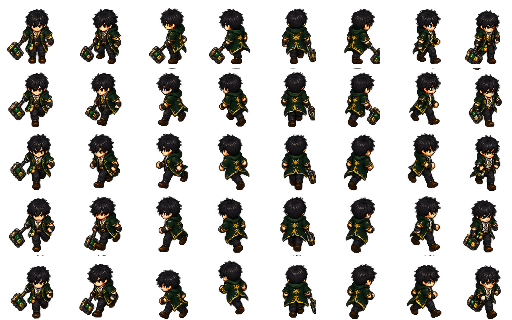
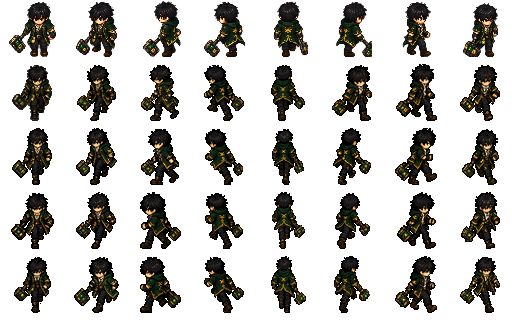
アセット修正

diff --git a/tools/pixelize_frame.py b/tools/pixelize_frame.py
@@ -1,5 +1,5 @@
 #!/usr/bin/env python3
-"""semantic renderを論理pixel gridへ縮小し、パレットを量子化する。"""
+"""可視前景を論理pixel gridへ正規化し、パレットを量子化する。"""
 
 from __future__ import annotations
 
@@ -10,36 +10,56 @@ from pathlib import Path
 from PIL import Image
 
 
+def alpha_mask(image: Image.Image, threshold: int) -> Image.Image:
+    """縮尺決定用に、見えない半透明ノイズを除いた前景マスクを作る。"""
+    return image.getchannel("A").point(lambda value: 255 if value > threshold else 0)
+
+
 def main() -> int:
     parser = argparse.ArgumentParser()
     parser.add_argument("input", type=Path)
     parser.add_argument("output", type=Path)
+    parser.add_argument("--spec", type=Path)
     parser.add_argument("--size", type=int, default=64)
     parser.add_argument("--colors", type=int, default=32)
-    parser.add_argument("--alpha-threshold", type=int, default=8)
-    parser.add_argument("--content-height", type=int, default=48)
+    parser.add_argument("--alpha-threshold", type=int)
+    parser.add_argument("--content-height", type=int, help="可視前景の目標高さ。未指定時はspecまたは48px")
+    parser.add_argument("--max-visible-width", type=int)
     args = parser.parse_args()
+    spec = json.loads(args.spec.read_text(encoding="utf-8")) if args.spec else {}
+    normalization = spec.get("normalization", {})
+    alpha_threshold = args.alpha_threshold if args.alpha_threshold is not None else normalization.get("alpha_bbox_threshold", 8)
+    target_visible_height = args.content_height if args.content_height is not None else normalization.get("target_visible_height", 48)
+    max_visible_width = args.max_visible_width if args.max_visible_width is not None else normalization.get("max_visible_width", args.size - 4)
     source = Image.open(args.input).convert("RGBA")
-    # 生成器ごとの余白はalpha bboxで除き、セル内の占有率を決定論的に揃える。
-    bbox = source.getchannel("A").getbbox()
+    # 先にalpha閾値を適用する。半透明の背景・縁ノイズをbboxへ含めると、
+    # キャラクター自身を不必要に縮小してしまう。
+    mask = alpha_mask(source, alpha_threshold)
+    bbox = mask.getbbox()
     if bbox is None:
         raise ValueError("source image has no foreground alpha")
-    padding = max(2, round(max(bbox[2] - bbox[0], bbox[3] - bbox[1]) * 0.04))
+    visible_width = bbox[2] - bbox[0]
+    visible_height = bbox[3] - bbox[1]
+    padding = max(2, round(max(visible_width, visible_height) * 0.04))
     crop = source.crop((max(0, bbox[0] - padding), max(0, bbox[1] - padding), min(source.width, bbox[2] + padding), min(source.height, bbox[3] + padding)))
-    scale = min(args.content_height / crop.height, (args.size - 4) / crop.width)
+    desired_scale = min(target_visible_height / visible_height, max_visible_width / visible_width)
+    # padding込みのcropがセルからあふれないよう、最終的な安全上限を設ける。
+    fit_scale = min((args.size - 2) / crop.width, (args.size - 2) / crop.height)
+    scale = min(desired_scale, fit_scale)
     target_size = (max(1, round(crop.width * scale)), max(1, round(crop.height * scale)))
     # 高解像度からの縮小はNEARESTではなくLANCZOS。以降に作る64px格子が論理pixel gridとなる。
     resized_crop = crop.resize(target_size, Image.Resampling.LANCZOS)
     resized = Image.new("RGBA", (args.size, args.size), (0, 0, 0, 0))
     resized.alpha_composite(resized_crop, ((args.size - target_size[0]) // 2, (args.size - target_size[1]) // 2))
-    alpha = resized.getchannel("A").point(lambda value: 255 if value > args.alpha_threshold else 0)
+    alpha = alpha_mask(resized, alpha_threshold)
     rgb = resized.convert("RGB").quantize(colors=args.colors, method=Image.Quantize.FASTOCTREE).convert("RGB")
     result = Image.merge("RGBA", (*rgb.split(), alpha))
     args.output.parent.mkdir(parents=True, exist_ok=True)
     result.save(args.output)
     colors = result.get_flattened_data()
     palette_count = len({pixel[:3] for pixel in colors if pixel[3]})
-    print(json.dumps({"status": "ok", "source_size": source.size, "source_bbox": bbox, "content_size": target_size, "pixel_grid": [args.size, args.size], "resample": "LANCZOS", "palette_colors": palette_count}, ensure_ascii=False))
+    result_bbox = alpha.getbbox()
+    print(json.dumps({"status": "ok", "source_size": source.size, "visible_bbox": bbox, "visible_size": [visible_width, visible_height], "target_visible_height": target_visible_height, "max_visible_width": max_visible_width, "content_size": target_size, "result_visible_size": [result_bbox[2] - result_bbox[0], result_bbox[3] - result_bbox[1]], "pixel_grid": [args.size, args.size], "resample": "LANCZOS", "palette_colors": palette_count}, ensure_ascii=False))
     return 0
 
 

diff --git a/tools/validate_sprite.py b/tools/validate_sprite.py
@@ -27,10 +27,17 @@ def main() -> int:
         errors.append(f"size expected 512x320, got {image.size}")
     image = image.convert("RGBA")
     anchor = spec["foot_anchor"]
+    normalization = spec.get("normalization", {})
+    target_visible_height = normalization.get("target_visible_height")
+    height_tolerance = normalization.get("height_tolerance", 0)
+    min_occupancy = normalization.get("min_occupancy", 0.015)
+    max_occupancy = normalization.get("max_occupancy", 1.0)
+    cell_width = spec["cell_size"]["width"]
+    cell_height = spec["cell_size"]["height"]
     cells: dict[str, object] = {}
     for row, row_id in enumerate(spec["rows"]):
         for column, direction in enumerate(spec["columns"]):
-            cell = image.crop((column * 64, row * 64, column * 64 + 64, row * 64 + 64))
+            cell = image.crop((column * cell_width, row * cell_height, (column + 1) * cell_width, (row + 1) * cell_height))
             bbox = cell.getchannel("A").getbbox()
             frame_id = f"{direction}_{row_id}"
             if bbox is None:
@@ -38,13 +45,17 @@ def main() -> int:
                 continue
             center_x = (bbox[0] + bbox[2] - 1) / 2
             bottom_y = bbox[3] - 1
-            occupancy = sum(1 for value in cell.getchannel("A").get_flattened_data() if value) / (64 * 64)
+            visible_width = bbox[2] - bbox[0]
+            visible_height = bbox[3] - bbox[1]
+            occupancy = sum(1 for value in cell.getchannel("A").get_flattened_data() if value) / (cell_width * cell_height)
             if abs(bottom_y - anchor["y"]) > args.anchor_tolerance:
                 errors.append(f"{frame_id}: bottom_y {bottom_y}, expected {anchor['y']}")
-            if occupancy < 0.015:
-                warnings.append(f"{frame_id}: low occupancy {occupancy:.3f}")
-            cells[frame_id] = {"bbox": bbox, "center_x": center_x, "bottom_y": bottom_y, "occupancy": occupancy}
-    report = {"status": "pass" if not errors else "fail", "errors": errors, "warnings": warnings, "cells": cells}
+            if target_visible_height is not None and abs(visible_height - target_visible_height) > height_tolerance:
+                errors.append(f"{frame_id}: visible_height {visible_height}, expected {target_visible_height}±{height_tolerance}")
+            if occupancy < min_occupancy or occupancy > max_occupancy:
+                errors.append(f"{frame_id}: occupancy {occupancy:.3f}, expected {min_occupancy:.3f}..{max_occupancy:.3f}")
+            cells[frame_id] = {"bbox": bbox, "center_x": center_x, "bottom_y": bottom_y, "visible_width": visible_width, "visible_height": visible_height, "occupancy": occupancy}
+    report = {"status": "pass" if not errors else "fail", "errors": errors, "warnings": warnings, "normalization": normalization, "cells": cells}
     args.report.parent.mkdir(parents=True, exist_ok=True)
     args.report.write_text(json.dumps(report, ensure_ascii=False, indent=2), encoding="utf-8")
     print(json.dumps({"status": report["status"], "errors": len(errors), "warnings": len(warnings)}, ensure_ascii=False))

diff --git a/docs/guides/キャラクターアセット制作ガイド.md b/docs/guides/キャラクターアセット制作ガイド.md
@@ -103,10 +103,11 @@ Avoid: sprite sheet, grid, cells, labels, watermark, border, <禁止事項>
 ## 正規化と透過処理
 
 1. source imageのalphaを確認する。ネイティブ透過なら保持し、不透明なら背景除去の方法・閾値・ツール版をmanifestへ記録する。
-2. 高解像度のsemantic renderは、pixelization、palette quantization、必要最小限のpixel cleanupを通して論理pixel gridを確定する。高解像度画像を`NEAREST`だけで64×64pxへ間引いてはならない。
-3. pixel grid確定後、各フレームのalpha bboxから中心Xと足元を取得し、motion specのアンカーへ配置する。`NEAREST`はこの確定済みgridの拡大・縮小を壊さないためだけに使う。
-4. 40枚の採用済みRGBAフレームを指定の方向・行・列へ機械的に組版し、512×320pxのRGBA PNGとして保存する。
-5. 寸法・RGBA・40セル・透明背景・アンカー・占有率・パレットを検査し、通過した候補だけをGodot用ファイルに昇格する。
+2. 高解像度のsemantic renderは、alpha閾値を適用した可視前景bboxを取得してから、pixelization、palette quantization、必要最小限のpixel cleanupを通して論理pixel gridを確定する。半透明の背景・縁ノイズをbboxへ含めてキャラクターを縮小してはならない。高解像度画像を`NEAREST`だけで64×64pxへ間引いてはならない。
+3. asset specの`normalization`に、alpha bbox閾値、可視前景の目標高さ・許容差、最大可視幅、占有率範囲を定義する。目標高さは既存の採用素材から計測し、停止・歩行の全フレームを同じ契約で正規化する。
+4. pixel grid確定後、各フレームのalpha bboxから中心Xと足元を取得し、motion specのアンカーへ配置する。`NEAREST`はこの確定済みgridの拡大・縮小を壊さないためだけに使う。
+5. 40枚の採用済みRGBAフレームを指定の方向・行・列へ機械的に組版し、512×320pxのRGBA PNGとして保存する。
+6. 寸法・RGBA・40セル・透明背景・アンカー・可視高さ・占有率・パレットを検査し、通過した候補だけをGodot用ファイルに昇格する。
 
 背景除去を誤って黒髪や濃色衣装へ適用すると、輪郭が透明化され、ゲーム中に切れ端がちらつく。ネイティブ透過を検出した素材には背景除去を適用しない。
 

diff --git a/docs/guides/スプライト素材作成ガイドライン.md b/docs/guides/スプライト素材作成ガイドライン.md
@@ -98,11 +98,13 @@ Constraints: centered, feet near the ground anchor, no background/floor/shadow/t
 今回の処理は次の順序である。
 
 1. `extract_alpha.py`で既存alphaを保持する。alphaがなければ、四隅の背景色を使ったchroma keyで背景を抜く。
-2. `pixelize_frame.py`で前景bboxを取得し、64×64pxの論理グリッドへ収める。
+2. `pixelize_frame.py`でalpha閾値後の可視前景bboxを取得し、asset specの目標可視高さへ正規化して64×64pxの論理グリッドへ収める。半透明の縁や背景ノイズはbboxに含めない。
 3. 高解像度からの縮小には`LANCZOS`を使い、その後に最大32色へ量子化する。
 4. alphaの小さなノイズを閾値で除去し、必要なら目視で最小限のpixel cleanupを行う。
 
 `NEAREST`を高解像度の生成画像から64pxへ落とす用途には使わない。これはpixel art化ではなく単なる間引きになり、輪郭欠損やランダムなノイズにつながる。`NEAREST`は、すでに確定したpixel gridを再配置・拡大縮小するときだけ使う。
+
+打鍵士パイロットでは、既存採用素材の可視高さが55〜57pxだったため、目標値を56px、許容差を±3pxとした。前回の候補は歩行行だけ34〜46pxだったが、閾値後bboxによる再処理で歩行32枚を56〜57pxへ揃えられた。キャラクターごとにこの値をasset specの`normalization`へ記録し、停止・歩行で異なる縮尺処理を混在させない。
 
 ### 6. 40枚を正規化して組版する
 
@@ -130,7 +132,8 @@ AIに位置合わせを任せず、ツールが64×64px・8列×5行・512×320p
 - 512×320pxであること
 - 40セルすべてが空でないこと
 - 各セルの足元がアンカーに揃うこと
-- 前景の占有率が極端に低くないこと
+- 各セルの可視高さがasset specの目標値・許容差に収まること
+- 前景の占有率がasset specの範囲に収まること
 
 次に、人が以下を確認する。ここを通らない限り採用しない。
 
